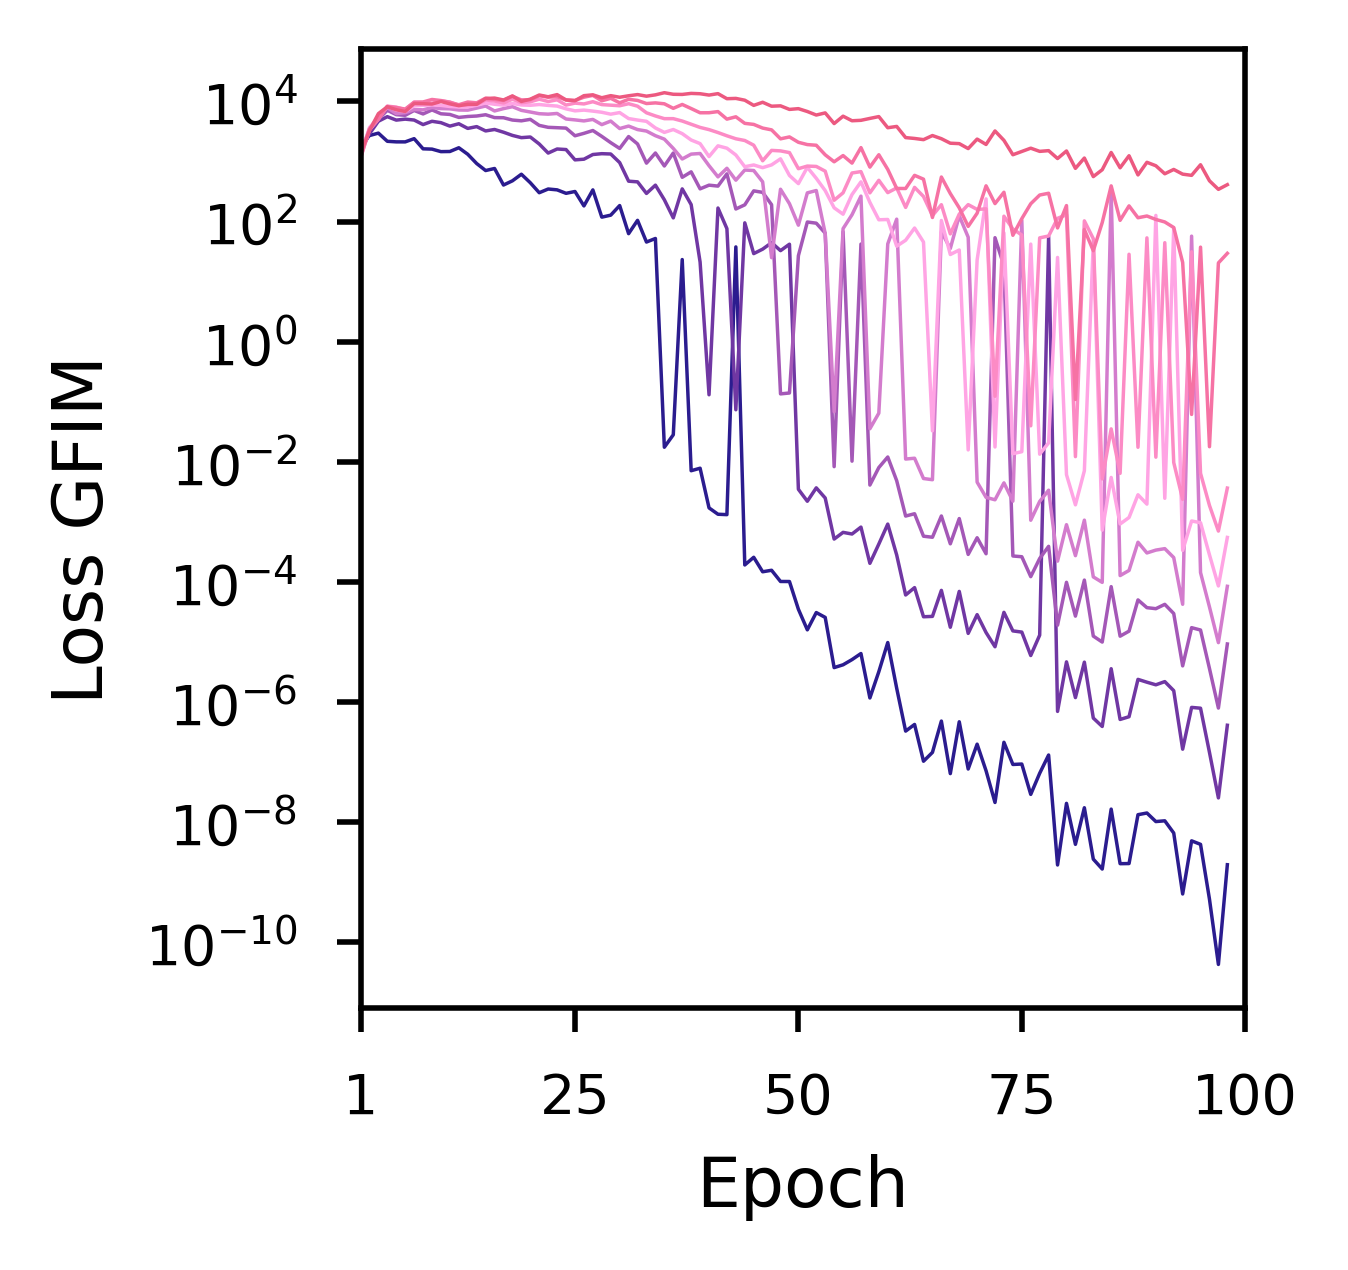
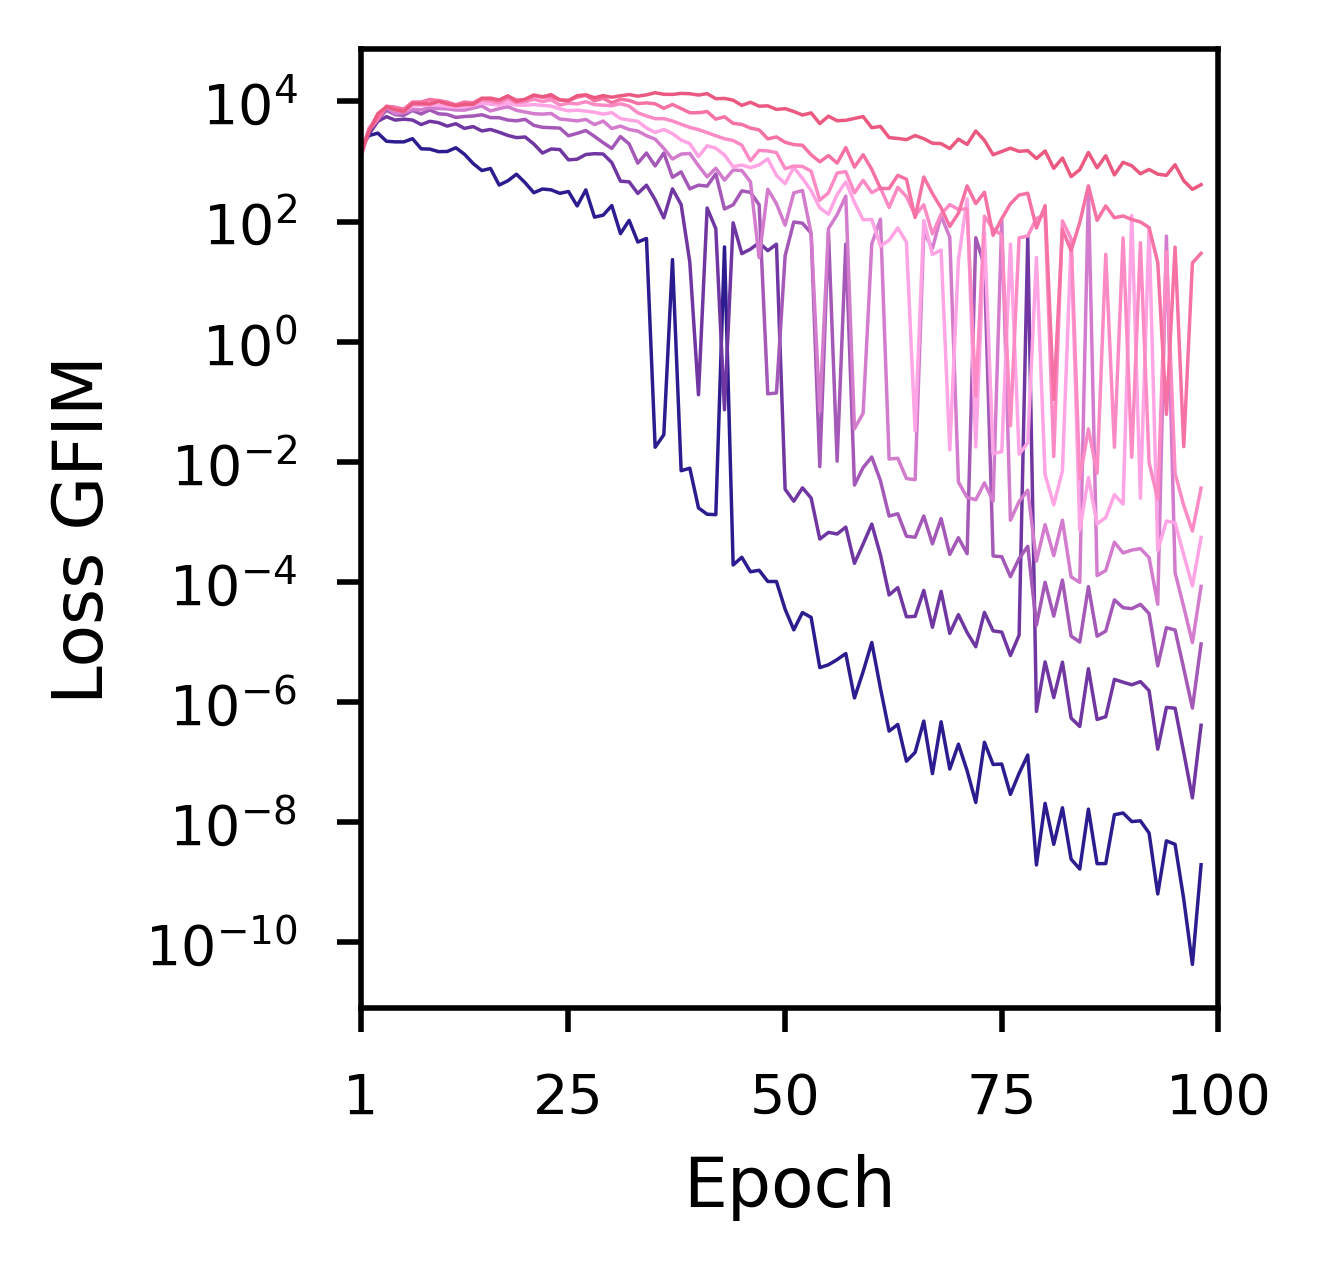
new VIT

diff --git a/graphs.py b/graphs.py
@@ -542,7 +542,7 @@ def make_VIT():
     FIMstep['Step'] = FIMstep['Step']+1
     print(FIMstep.head())
 
-    fig, ax = plt.subplots(1,1,figsize=set_size(165,height=180))
+    fig, ax = plt.subplots(1,1,figsize=set_size(160,height=180))
 
     sea.lineplot(ax=ax,x="Step",y="0",data=FIMstep,label="0 (Low)",linewidth=linsize,color=cols[0])
     sea.lineplot(ax=ax,x="Step",y="1",data=FIMstep,label="1",linewidth=linsize,color=cols[1])
